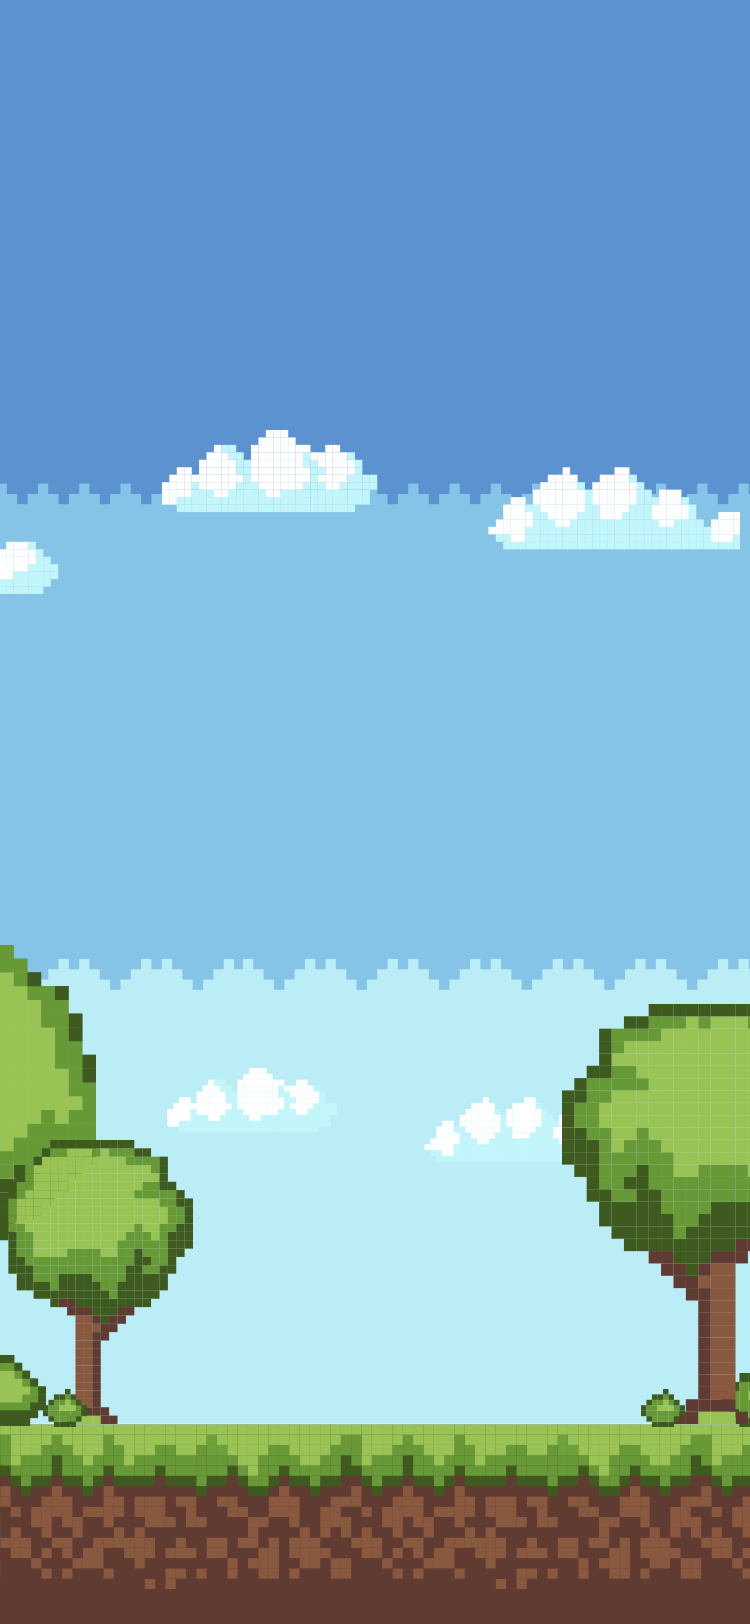
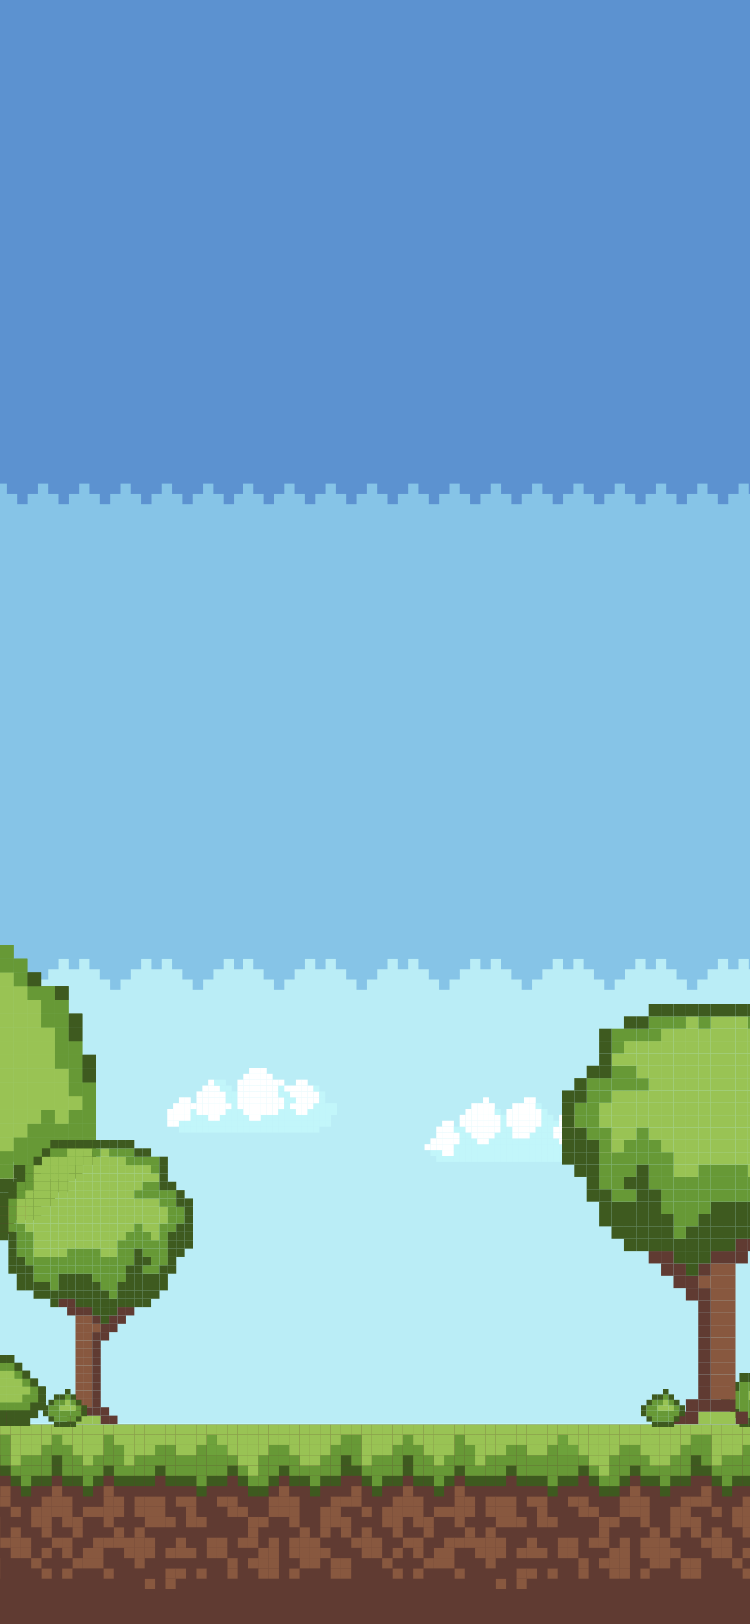
10 mmf 작업중

Changed region(s): [[0.2147, 0.2463, 0.5213, 0.3387], [0.644, 0.2771, 1.0, 0.3387], [0.0, 0.3079, 0.092, 0.3695]]

diff --git a/src/0A0010/index.html b/src/0A0010/index.html
@@ -32,6 +32,7 @@
         <!-- <img src="assets/cast_special_mmf_1.png" style="width: auto; height: 100%; z-index: 3; opacity: 0.5;" /> -->
         <div class="content-wrapper">
           <img src="assets/cast_special_mmf_1_bg.png" class="mmf-bg" />
+          <img src="assets/cast_special_mmf_1_2_cloud.png" class="cloud"/>
           <img src="assets/cast_special_mmf_1_2_coin.png" class="first-coin first-coin-active" style="top: 16%; right: 15%;" />
           <img src="assets/cast_special_mmf_1_2_coin.png" class="first-coin first-coin-active" style="top: 19%; left: 11%;" />
           <img src="assets/cast_special_mmf_1_2_coin.png" class="first-coin first-coin-active" style="top: 28%; right: 5%;" />
@@ -46,6 +47,7 @@
         <!-- <img src="assets/cast_special_mmf_2.png" style="width: auto; height: 100%; z-index: 3; opacity: 0.5;" /> -->
         <div class="content-wrapper second">
           <img src="assets/cast_special_mmf_2_bg.png" class="mmf-bg" id="secondImg"/>
+          <img src="assets/cast_special_mmf_1_2_cloud.png" class="cloud" style="display: none;"/>
           <img src="assets/cast_special_mmf_2_text1.png" class="start-game-txt" />
           <img src="assets/cast_special_mmf_2_text2.png" class="player1" />
           <img src="assets/cast_special_mmf_2_text3.png" class="player2" />
@@ -58,17 +60,25 @@
       </div>
       <div class="swiper-slide">
         <!-- v-2 -->
-        <div class="content-wrapper">
+        <div class="content-wrapper" style="background-color: #EFCD56;">
           <video id="mmf_video" class="mmf_bg" autoplay playsinline
             style="width: auto; height: 100%; padding: 0; margin: 0; z-index: 3;">
-            <source src="assets/cast_special_mmf_3_1.mp4" type="video/mp4" />
+            <source src="assets/cast_special_mmf_3 1.mp4" type="video/mp4" />
           </video>
         </div>
       </div>
       <div class="swiper-slide">
         <!-- v-3 -->
+        <img src="assets/cast_special_mmf_4.png" class="mmf-bg" />
         <div class="content-wrapper">
-          <img src="assets/cast_special_mmf_4.png" class="mmf-bg" />
+          <img src="assets/cast_special_mmf_4_bg.png" class="mmf-bg" />
+          <img src="assets/cast_special_mmf_4_cloud1.png" class="page4-cloud1"/>
+          <img src="assets/cast_special_mmf_4_cloud2.png" class="page4-cloud2" style="position:absolute; top: 26%; left: 0; width: 111%;"/>
+          <img src="assets/cast_special_mmf_1_2_coin.png" class="third-coin" style="top: 75%; left: 23%;" />
+          <img src="assets/cast_special_mmf_1_2_coin.png" class="third-coin" style="top: 70%; left: 37%;" />
+          <img src="assets/cast_special_mmf_1_2_coin.png" class="third-coin" style="top: 70%; left: 59%;" />
+          <img src="assets/cast_special_mmf_1_2_coin.png" class="third-coin" style="top: 76%; right: 20%;" />
+          <img src="assets/cast_special_mmf_4_button.png" class="mmf-finish-btn" style="bottom: 7.5%; width: 68%;"/>
         </div>
       </div>
     </div>

diff --git a/src/0A0010/index.css b/src/0A0010/index.css
@@ -71,26 +71,61 @@ img {
 .cloud {
     position: absolute;
     top: 27%;
-    left: -7%;
+    left: 0;
     width: 185%;
-    opacity: 0.7;
-    animation: ani-cloud 7s infinite ease-in-out;
+    animation: wave 7s cubic-bezier(0.36, 0.45, 0.63, 0.53) infinite;
+    transform: translate3d(0, 0, 0);
 }
 
-@keyframes ani-cloud {
+.page4-cloud1 {
+    top: 10%;
+    position: absolute;
+    left: 9%;
+    width: 86%;
+    opacity: 0.8;
+    animation: ani-cloud1 7s infinite ease-in-out;
+}
+
+.page4-cloud2-active {
+    animation: ani-cloud2 7s infinite ease-in-out;
+}
+
+@keyframes ani-cloud1 {
     0% {
-        transform: translate(1%, 0);
+        transform: translate(2%, 0);
     }
     50% {
-        transform: translate(-1%, 0);
+        transform: translate(-4%, 0);
     }
     100% {
-        transform: translate(1%, 0);
+        transform: translate(2%, 0);
+    }
+}
+
+@keyframes ani-cloud2 {
+    0% {
+        transform: translate(3%, 0);
+    }
+    50% {
+        transform: translate(-9%, 0);
+    }
+    100% {
+        transform: translate(3%, 0);
+    }
+}
+
+@keyframes wave {
+    0% {
+        margin-left: 0;
+    }
+    100% {
+        margin-left: -85%;
     }
 }
 
 .first-coin,
-.second-coin {
+.second-coin,
+.third-coin {
     position: absolute;
     width: 8%;
 }
@@ -140,23 +175,28 @@ img {
     animation-delay: 0.2s;
 }
 
-.second-coin-active {
+.second-coin-active,
+.third-coin-active {
     animation: ani-coin 0.5s ease-out both;
 }
 
-.second-coin-active:nth-of-type(7) {
+.second-coin-active:nth-of-type(7),
+.third-coin-active:nth-of-type(4) {
     animation-delay: 0.1s;
 }
 
-.second-coin-active:nth-of-type(7) {
+.second-coin-active:nth-of-type(8),
+.third-coin-active:nth-of-type(5) {
     animation-delay: 0.3s;
 }
 
-.second-coin-active:nth-of-type(8) {
+.second-coin-active:nth-of-type(9),
+.third-coin-active:nth-of-type(6) {
     animation-delay: 0.6s;
 }
 
-.second-coin-active:nth-of-type(9) {
+.second-coin-active:nth-of-type(10),
+.third-coin-active:nth-of-type(7) {
     animation-delay: 0.9s;
 }
 
@@ -178,16 +218,8 @@ img {
     }
 }
 
-/* @keyframes ani-coin {
-    100% {
-        transform: rotateY(360deg);
-    }
-    60% {
-        transform: rotateY(90deg);
-        filter: brightness(0.8);
-    }
-} */
-.mmf-start-btn {
+.mmf-start-btn,
+.mmf-finish-btn {
     width: 58%;
     height: auto;
     position: absolute;
@@ -198,9 +230,25 @@ img {
     border-radius: 6px;
 }
 
+.mmf-finish-btn {
+    animation: pulse 1.3s infinite ease;
+}
+
 @keyframes pulseAnim {
     0% {
         box-shadow: 0 0 0 0 #26262766;
+    }
+    70% {
+        box-shadow: 0 0 0 10px rgba(88, 120, 243, 0);
+    }
+    100% {
+        box-shadow: 0 0 0 0 rgba(88, 120, 243, 0);
+    }
+}
+
+@keyframes pulse {
+    0% {
+        box-shadow: 0 0 0 0 rgba(230, 237, 255, 0.7);
     }
     70% {
         box-shadow: 0 0 0 10px rgba(88, 120, 243, 0);

diff --git a/src/0A0010/index.js b/src/0A0010/index.js
@@ -24,6 +24,7 @@ const mmfArrow = document.querySelector(".mmf-arrow");
 const player2 = document.querySelector(".player2");
 const firstCoin = document.getElementsByClassName("first-coin");
 const secondCoin = document.getElementsByClassName("second-coin");
+const thirdCoin = document.getElementsByClassName("third-coin");
 const mmfVideo = document.getElementById("mmf_video");
 
 window.onload = function () {
@@ -38,6 +39,7 @@ window.onload = function () {
 
                 switch (sp.activeIndex) {
                     case 1:
+                        document.getElementsByClassName("cloud")[1].style.display = "block";
                         setTimeout(function () {
                             for (i = 0; i < secondCoin.length; i++) {
                                 secondCoin[i].classList.add("second-coin-active");
@@ -49,6 +51,14 @@ window.onload = function () {
                             mmfVideo.currentTime = 0;
                             mmfVideo.play();
                         }, 100);
+                        break;
+                    case 3:
+                        document.querySelector(".page4-cloud2").classList.add("page4-cloud2-active");
+                        setTimeout(function () {
+                            for (i = 0; i < thirdCoin.length; i++) {
+                                thirdCoin[i].classList.add("third-coin-active");
+                            }
+                        }, 300);
                         break;
                     default:
                         mmfVideo.pause();
